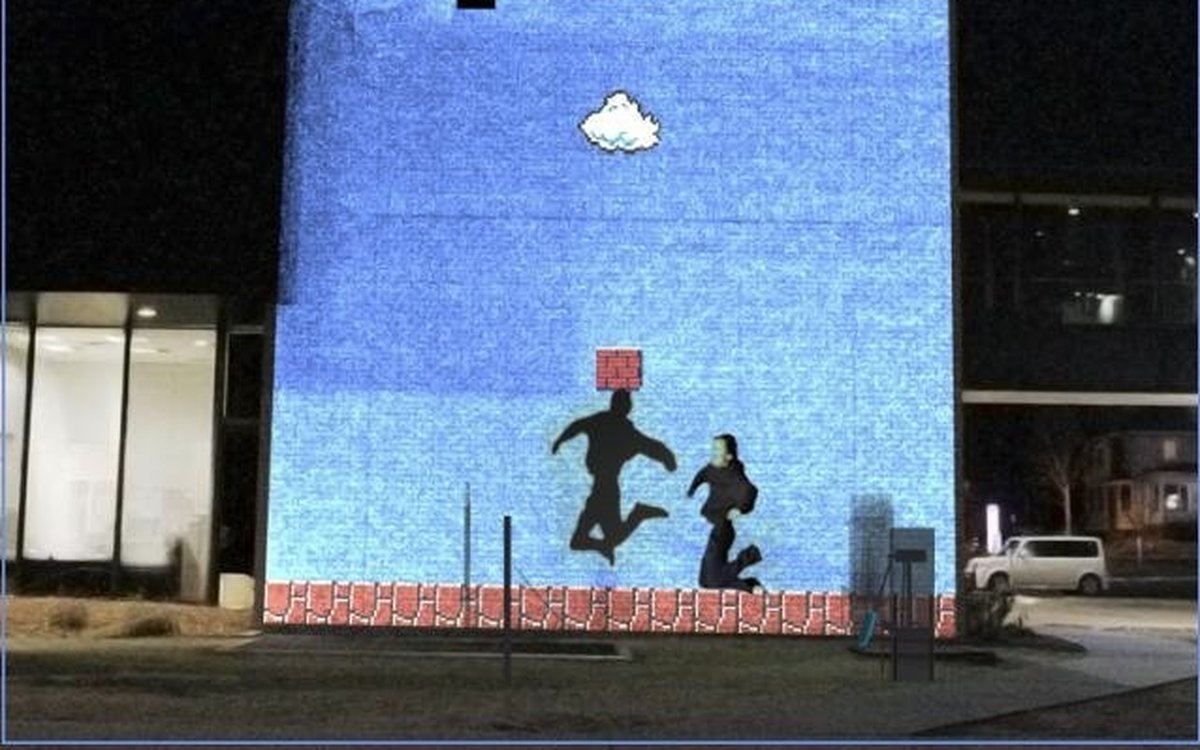
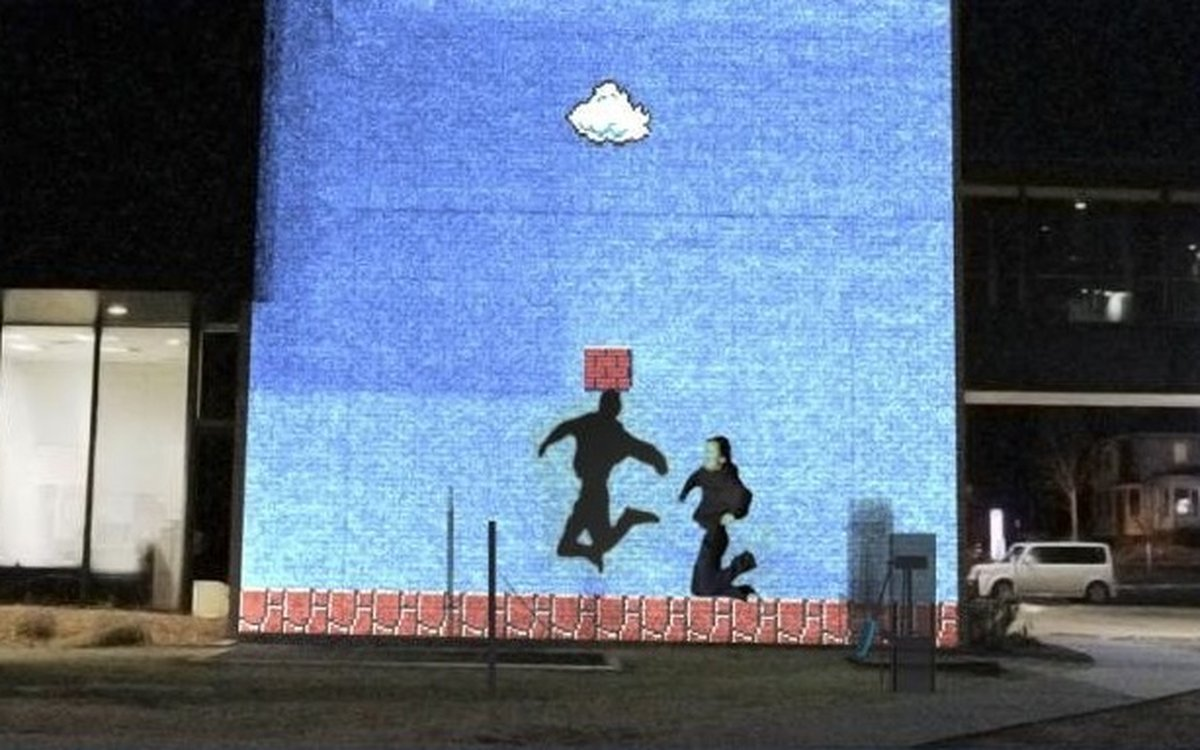
Midnight Mario: crop title text and frame lines off the photo
Claude-Session: https://claude.ai/code/session_01DSncjTZFgELzsSuxk1jdYd

Changed region(s): [[0.0, 0.0, 1.0, 1.0], [0.8942, 0.368, 0.9558, 0.4293]]

diff --git a/work/midnight-mario/index.html b/work/midnight-mario/index.html
@@ -119,7 +119,7 @@
 
   <div class="wrap">
     <div class="reel">
-      <figure style="margin:0"><img src="northern-spark-2012.jpg" alt="Two people jumping in silhouette against a Super Mario Bros. scene projected onto the side of a building at night, under a pixel-art Midnight Mario title" width="654" height="491" style="height:auto"></figure>
+      <figure style="margin:0"><img src="northern-spark-2012.jpg" alt="Two people jumping in silhouette against a Super Mario Bros. scene projected onto the side of a building at night, under a pixel-art Midnight Mario title" width="628" height="384" style="height:auto"></figure>
       <p>Jumpers' shadows in the projected Mario world, on the side of a building at MCAD.</p>
       <div class="links">
         <a class="btn" href="https://2012.northernspark.org/project/peng-wu-2.html" target="_blank" rel="noopener">Northern Spark 2012 page ↗</a>
